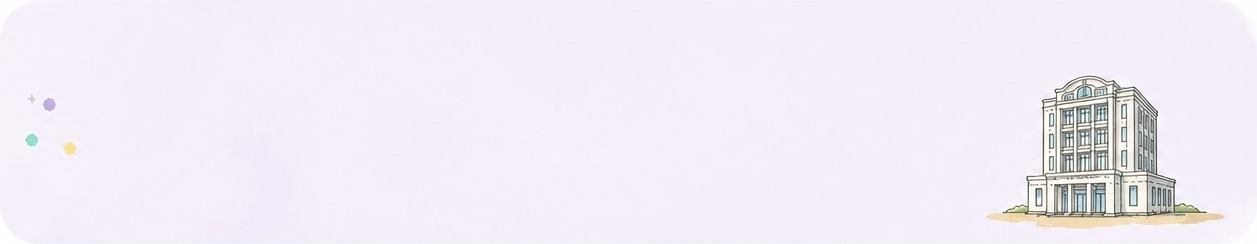
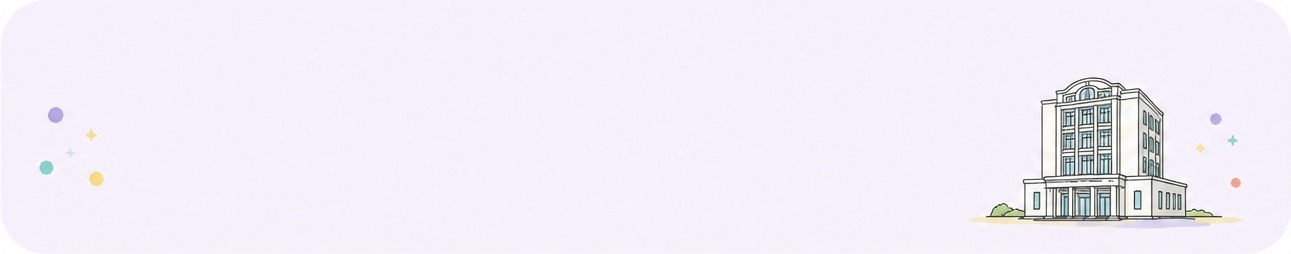
地域選択: 新イラスト4枚（5/26アップロード分）に差し替え。白余白トリミング＋パノラマ余白クロップ、ピン位置を新パノラマに合わせ調整

diff --git a/index.html b/index.html
@@ -1306,9 +1306,9 @@
     color: var(--color-ink-soft);
     margin-top: 2px;
   }
-  .pin-yamanashi { left: 16%; top: 30%; color: var(--color-green); border-color: var(--color-green); }
-  .pin-tama      { left: 50%; top: 36%; color: var(--color-purple); border-color: var(--color-purple); }
-  .pin-tokyo23   { left: 82%; top: 40%; color: var(--color-coral); border-color: var(--color-coral); }
+  .pin-yamanashi { left: 18%; top: 46%; color: var(--color-green); border-color: var(--color-green); }
+  .pin-tama      { left: 50%; top: 37%; color: var(--color-purple); border-color: var(--color-purple); }
+  .pin-tokyo23   { left: 81%; top: 38%; color: var(--color-coral); border-color: var(--color-coral); }
 
   /* Section title above the 3 cards */
   .region-section-title {
